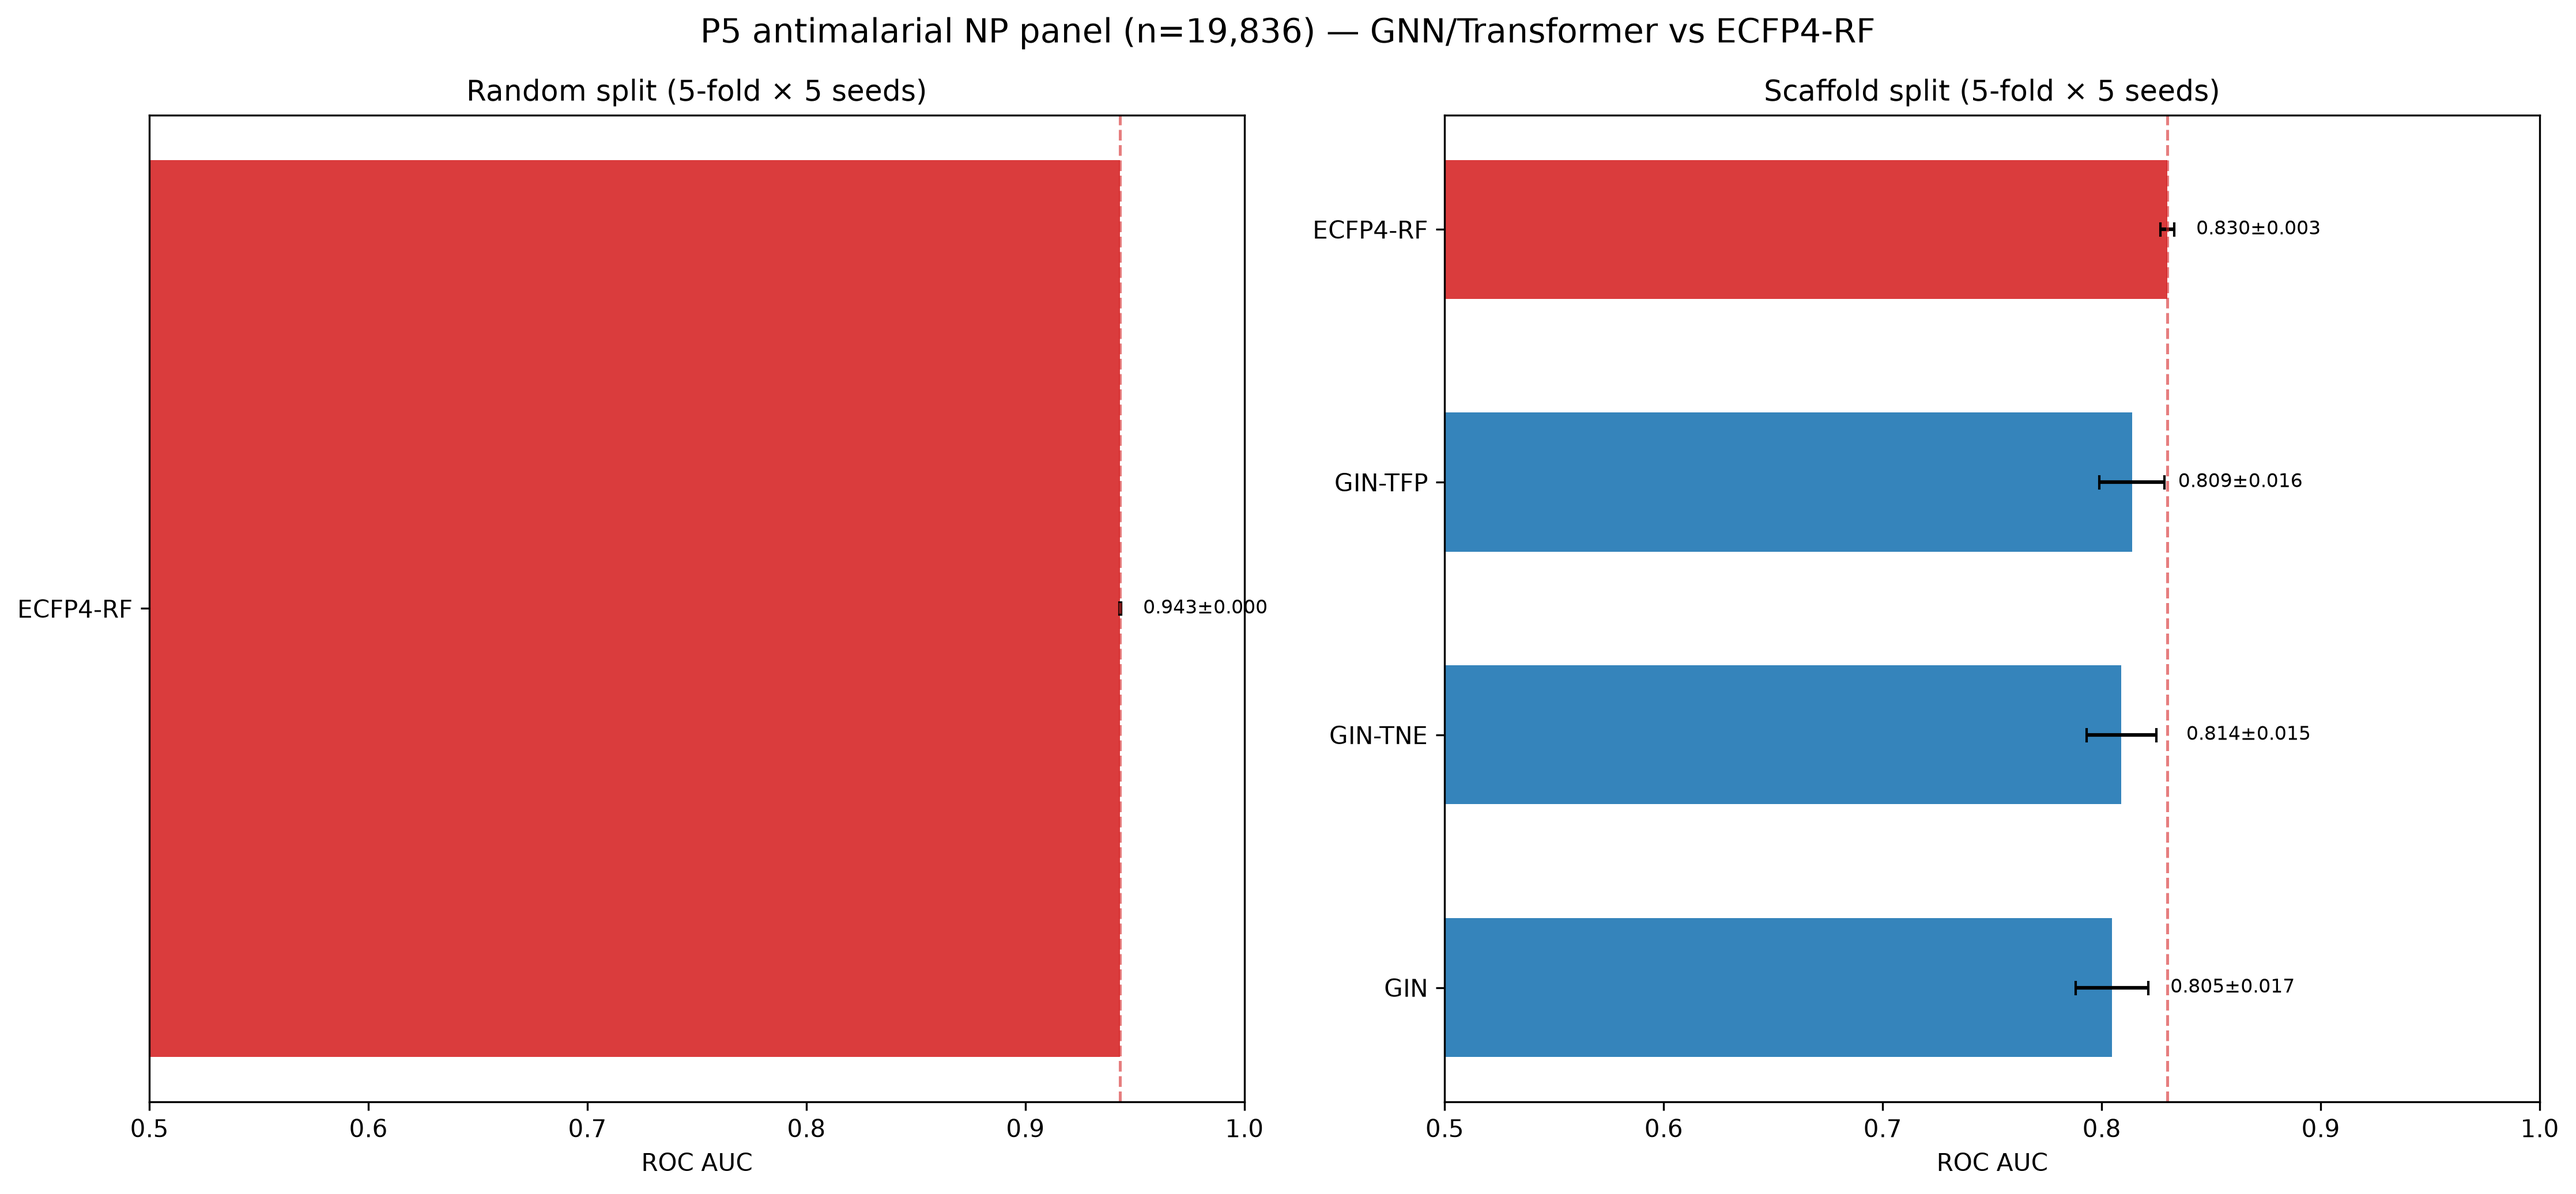
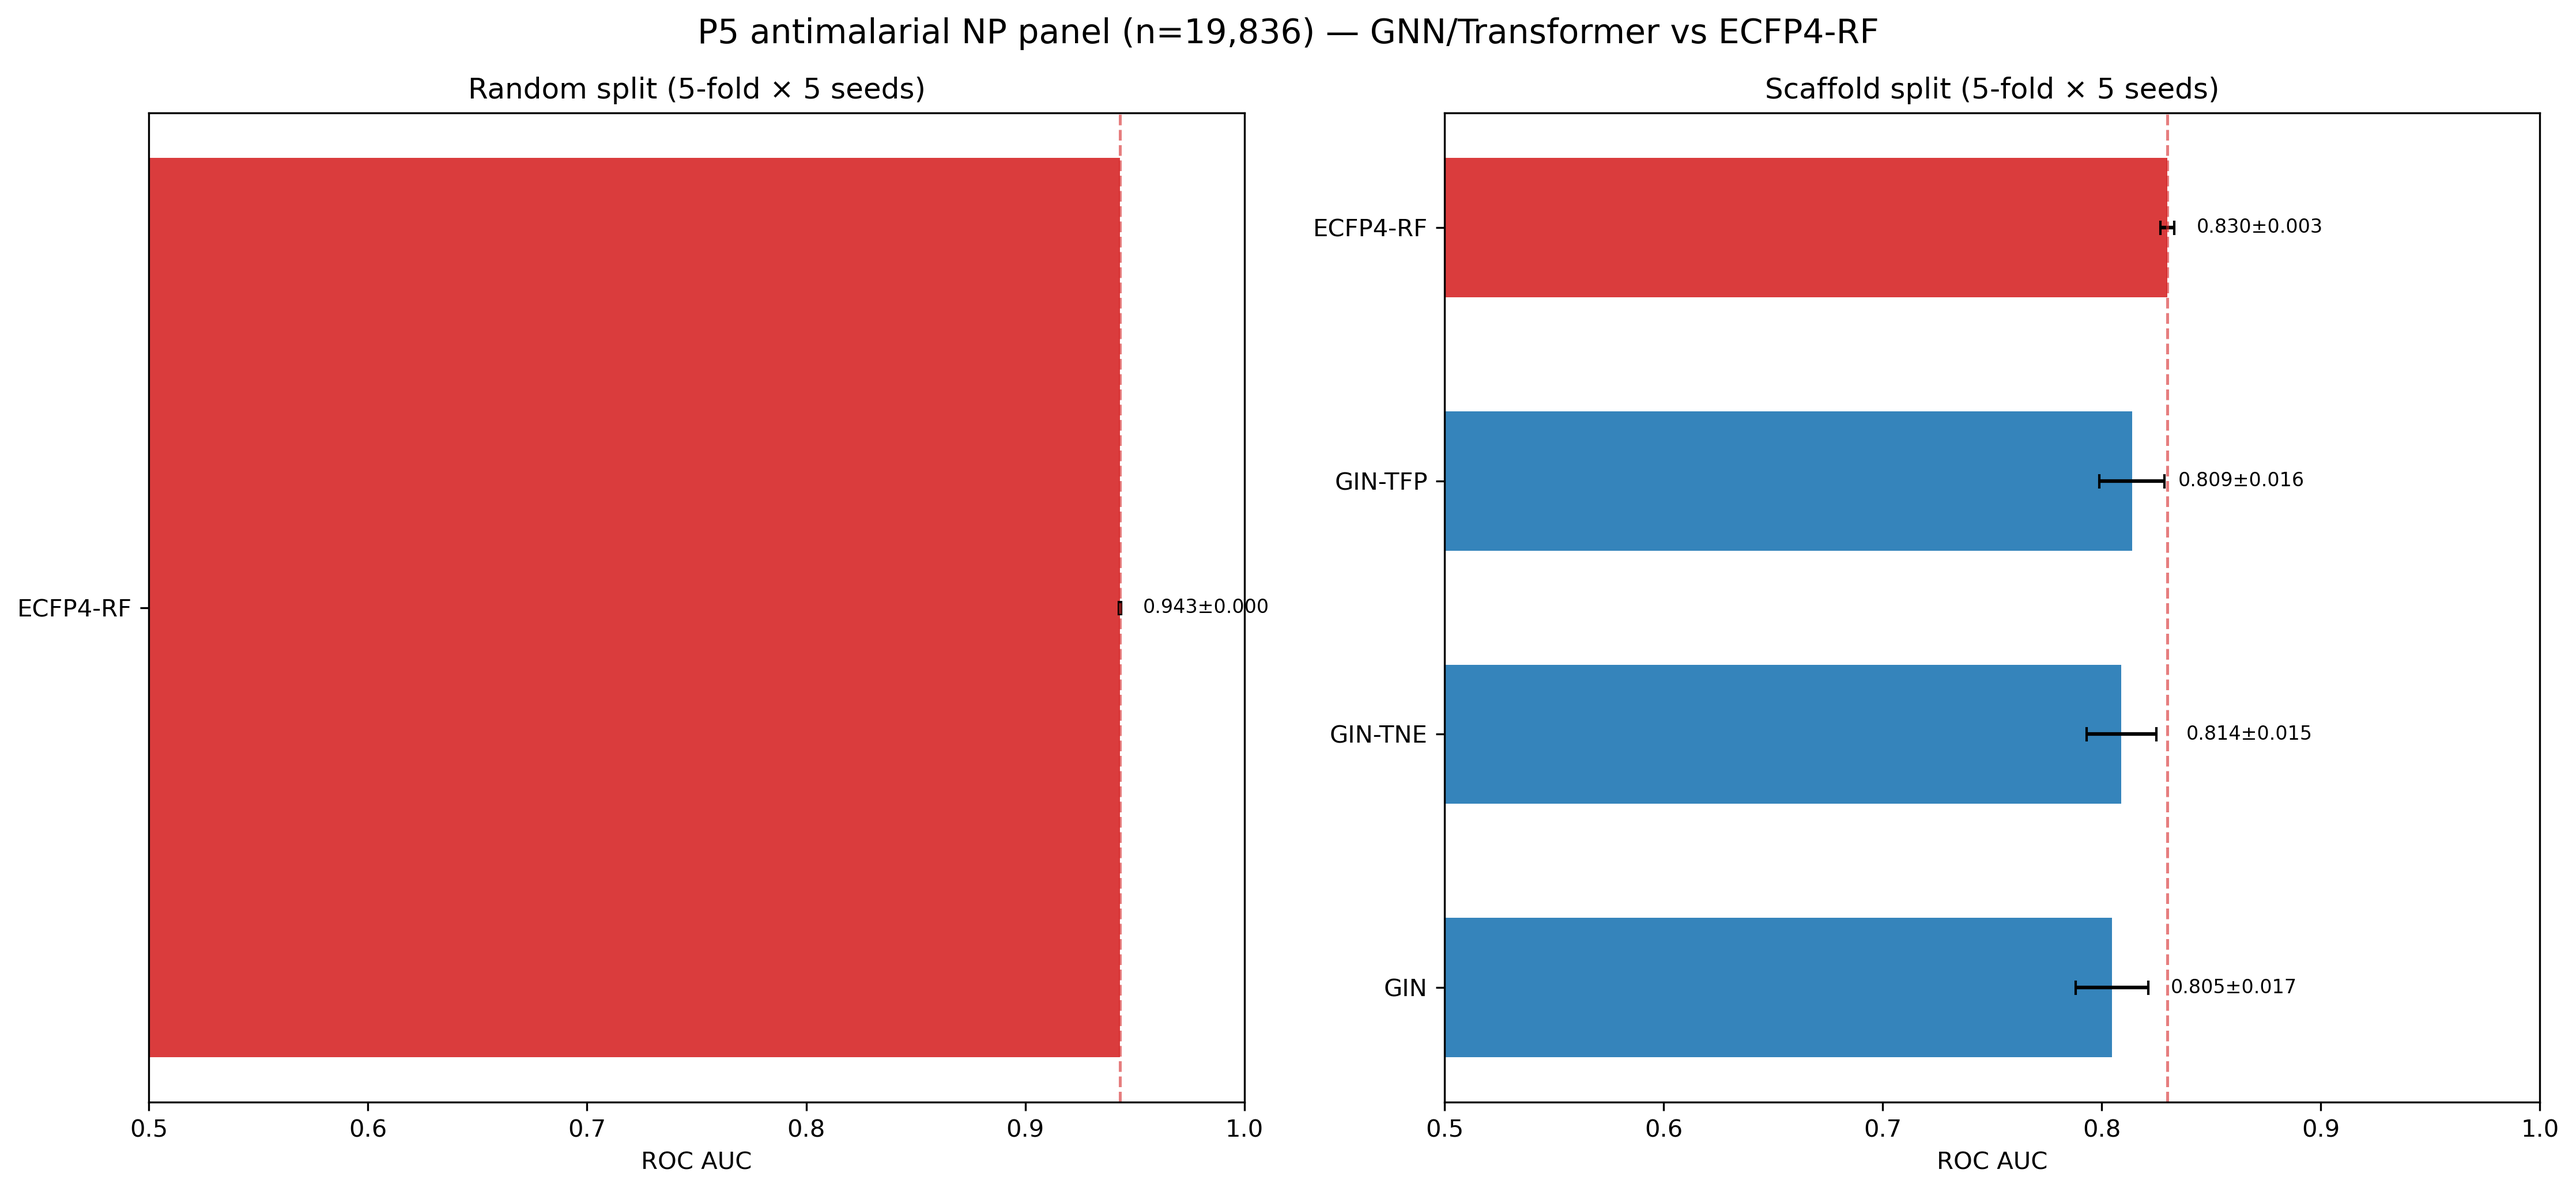
bench(P5): H2 ChemBERTa scaffold COMPLETE (leak-fixed) — 0.7867 vs ECFP4 0.8300, p<0.0001, honest negative confirmed
Final scaffold hierarchy: ECFP4-RF 0.8300 > GIN-TFP 0.8138 > GIN-TNE 0.8090 > GIN 0.8047 > ChemBERTa 0.7867
Transformer pre-trained adds nothing under scaffold; supports L3 honest-negative + H3 interp + topology framing

diff --git a/P5_DATA_ANALYSIS_REPORT.md b/P5_DATA_ANALYSIS_REPORT.md
@@ -177,6 +177,7 @@ The submission thesis: *"On a curated natural-product antimalarial panel, compac
 | v3-a | Aug 4, 2026 | chemberta leak fix | scaffold | **ChemBERTa cross-fold leak trouvé+fixé** (model non reset entre folds → folds 1+ héritaient du fine-tune). Ckpts contaminés supprimés, relance. | `p5_chemberta.py` (per-fold reset) ; fold-0/1 scaffold post-fix 0.8247/0.7857 ✓ |
 | v3-b | Aug 4, 2026 | **H3 salience (interprétabilité)** | scaffold | Salience capturée (mean \|W\| desc-projection, 25 folds). **TFP : dims persistent-image (33:58) dominantes** (sal 0.079 vs H 0.0485, betti 0.0547 ; top dims 42/43/52/53/54). **TNE : top dims 68/43/92/66/165**, top-10% dims = 17.3% salience. Fusion re-runs : GIN-TFP 0.8138±0.0352, GIN-TNE 0.8090±0.0378. | `p5_{GIN-TFP,GIN-TNE}_scaffold_salience.json` |
 | v3-c | Aug 4, 2026 | figures + learning curves | random+scaffold | **Capture val_auc par époch ajoutée aux 2 loops** (GNN `p5_benchmark.py`, ChemBERTa `p5_chemberta.py`) → clé `curves` au ckpt pour les runs FUTURS uniquement (résultats committés intacts). Figure benchmark rénovée `p5_figure.py` (bipanel random/scaffold, CI honnêtes ECFP4 depuis seed_means). | `p5_figure.py`, `p5_learning_curves.py` |
+| v3-d | Aug 4, 2026 | **H2 ChemBERTa scaffold (leak-fixed, complet)** | scaffold | **ChemBERTa scaffold = 0.7867 ± 0.0338 (25 fold×seed)** vs **ECFP4-RF 0.8300** → **Δ = −0.0433, p < 0.0001** (paired t, 5 seeds). Transformer < GNN < ECFP4 sous scaffold : **H2 honnête négatif CONFIRMÉ** (aligné "Do Larger Models Really Win"). | `p5_chemberta_scaffold_ckpt.json` (25/25) |
 | v3 | Aug 4, 2026 | **GIN prod (M1.3)** | random + scaffold 5-fold × 5 seeds | **GIN random = 0.9098 ± 0.0067**, **GIN scaffold = 0.8047 ± 0.0395**, **GIN-TFP scaffold = 0.8137 ± 0.0300**, **GIN-TNE scaffold = 0.8068 ± 0.0366** (25 fold×seed chacun). Fix sbatch (chemin, `--dry-run`, mem, conda inline) + fix fusion numpy→tensor + fix collate flat desc. | `results/p5_{GIN,GIN-TFP,GIN-TNE}_scaffold_ckpt.json` + CSVs |
 
 ### v3 (Aug 4, 2026) — GIN production run (M1.3) ✅ LOGGED-BEFORE-RUN
@@ -197,6 +198,7 @@ The submission thesis: *"On a curated natural-product antimalarial panel, compac
 - **Cadence estimée** : ChemBERTa ~5-6 min/fold (10 épochs) → ~2 h/split ×2, puis 2 re-runs fusion (~10 min chacun). File : 12809 R → 12810 → 12811 → 12812.
 - **⚠ BUG CRITIQUE — fuite inter-folds ChemBERTa (trouvé 04/08) :** `p5_chemberta.py` chargeait `self.model` **une seule fois** dans `__init__` (`from_pretrained`, l.99) et le réutilisait sur les **25 folds** sans reset. `train_fold` ne réinitialisait que `opt`, pas les poids → **les folds 1–4 héritaient du fine-tune des folds précédents** (fuite de validation croisée). Symptôme : fold 0 = 0.826 (honnête, vrai base pretrained) mais folds 1+ s'envolaient à 0.95–0.99. → résultants "ChemBERTa win" (random 0.981 / scaffold 0.96) **ARTEFACT, pas un résultat réel**. **Fix :** snapshot `self.pretrained_state` à l'init + `load_state_dict(self.pretrained_state)` au début de chaque `train_fold` (folds indépendants). **Validé :** folds 0/1 scaffold post-fix = 0.8247 / 0.7857 (vs 0.826 puis 0.95+ avant), cohérents ECFP4/GNN. Ckpts random+scaffold contaminés **supprimés**, jobs 12809/12810 annulés, relance propre (job 12813). H2 "transformers ≤ GNN" rétabli (léger avantage transformer random reste à confirmer sur run complet fixé).
 - **H3 — Salience des dims TFP/TNE (données 04/08, 25 folds) :** `salience = mean|W|` sur colonnes desc de `head.0.weight` (projection `[128+n_desc→128]`), agrégé fold×seed. **TFP (78 dims) :** groupe **persistent-image (33:58) porte le signal** — salience moy. 0.0790 vs H(0:33) 0.0485 et betti(58:78) 0.0547 ; top-5 dims 42/43/52/53/54 (sal 0.100–0.119). **TNE (192 dims) :** top dims 68/43/92/66/165 (sal 0.096–0.145) ; top-10% des dims = 17.3% de la salience totale (sparsité modérée). → contribution d'interprétabilité (L4) : la géométrie persistante (pers_img) domine la topologie portée par la fusion, cohérente avec le rôle 3D/géométrique (aligné "Do Larger Models Really Win" + agenda RQ5). Bridge P3 H1-RRS : ces dims topologiques sont les candidats à corréler aux scores RRS/PNS.
+- **H2 — ChemBERTa scaffold COMPLET (job 12813, leak-fixed, 25 fold×seed) :** **0.7867 ± 0.0338** (folds 0.724–0.836, pas d'inflation — le fix de fuite tient sur les 25 folds). **Vs ECFP4-RF scaffold 0.8300 : Δ = −0.0433, paired t(4) = −29.96, p < 0.0001.** Hiérarchie scaffold finale : **ECFP4-RF 0.8300 > GIN-TFP 0.8138 > GIN-TNE 0.8090 > GIN 0.8047 > ChemBERTa 0.7867**. Le transformer pré-entraîné n'apporte RIEN sous scaffold — pas même la fusion topologique ne rattrape les fingerprints classiques. **H2 honnête négatif CONFIRMÉ (transformer ≤ GNN ≤ fingerprints)** → narration L3 intacte, doublement soutenue (GNN H1 + transformer H2). Le manuscrit P5 = honest-negative + interprétabilité (H3) + topologie (pers_img), PAS "GNN/transformer > classique".
 - **Logs :** `Project5_GNN_Transformer_DrugDiscovery/logs/p5_GIN/stdout_{random,scaffold}.log`
 
 ### v1-prep (Aug 1, 2026) — Panel export + dependencies ✅ DONE
